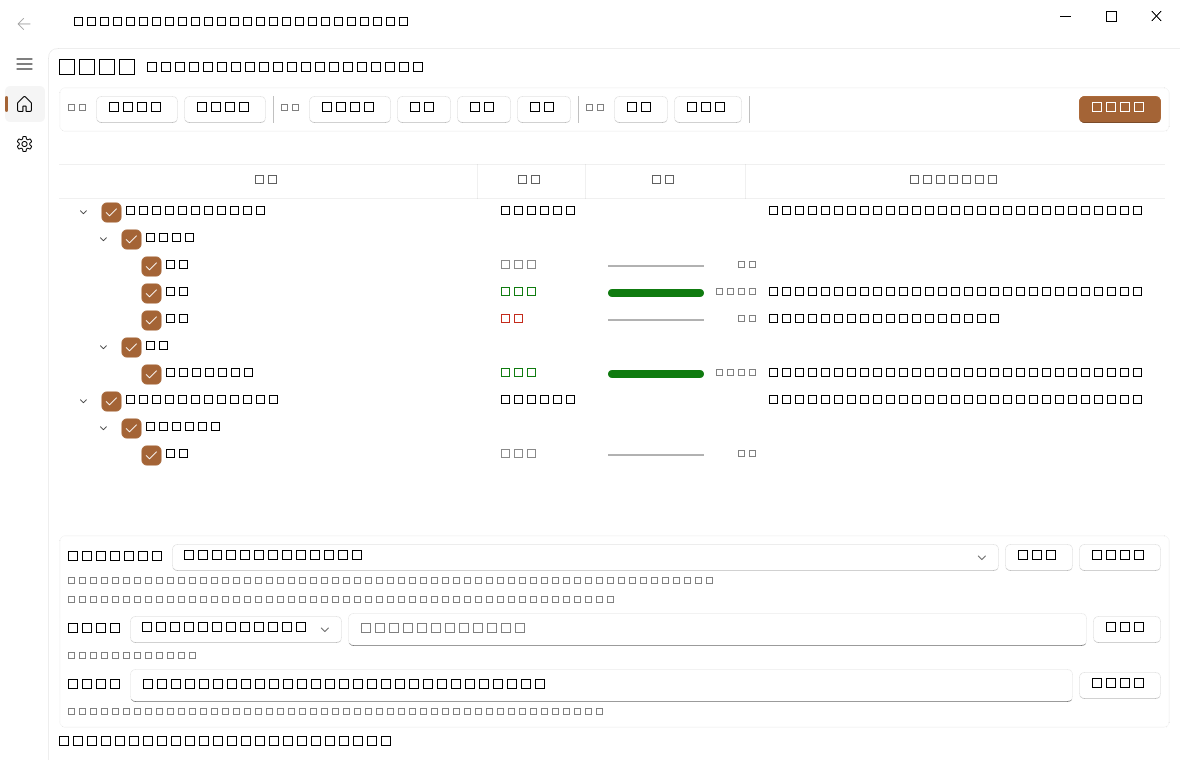
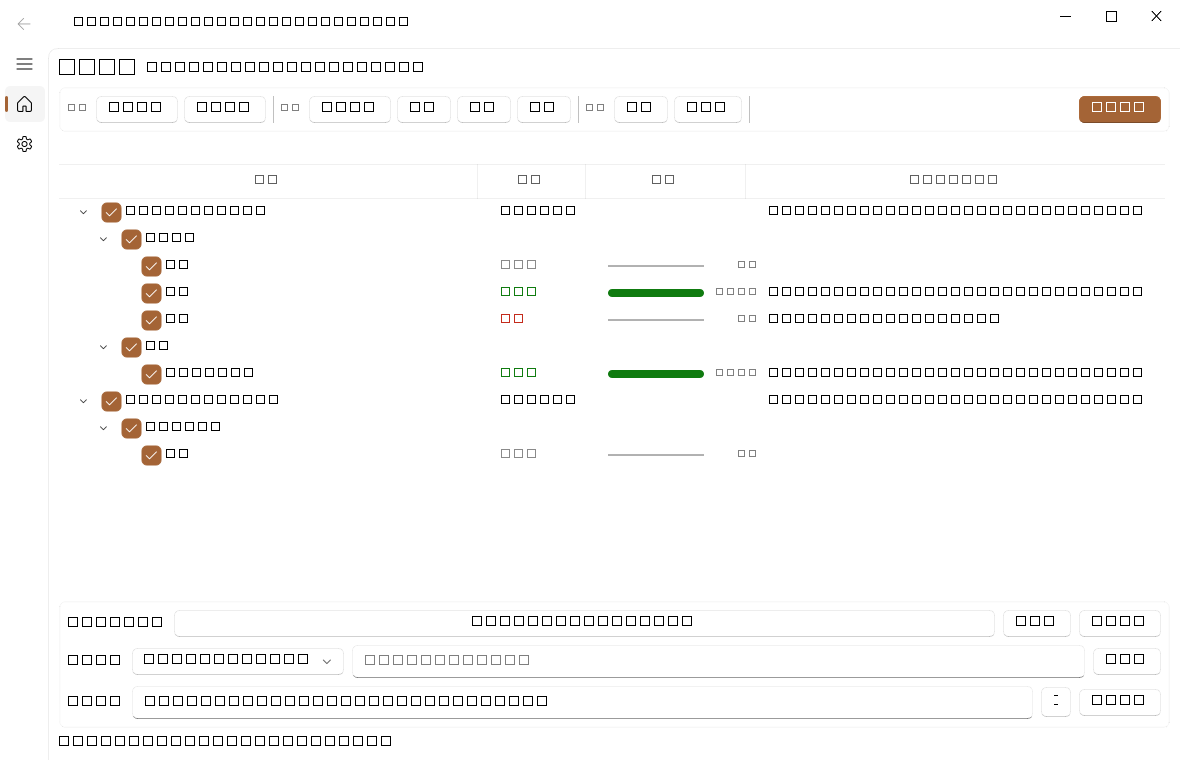
feat: 选项区信息层级重构
- Blender 下拉改为富两行项（主行简短名 + 灰字完整路径）；移除外置路径灰字与 GPU 提示
- 输出目录：移除外部灰色小字（说明并入来源下拉选项文字）
- 命名模板：灰色小字换成“?”按钮 → 结构化浮窗，每个占位符以圆角框/胶囊列出（含描述与示例）
- 新增 ui/widgets.py：富下拉 RichComboBox + 卡片浮窗/占位符帮助

diff --git a/src/rmqueue/ui/widgets.py b/src/rmqueue/ui/widgets.py
@@ -1,0 +1,235 @@
+"""自绘 UI 小部件：富两行下拉选择器 + 卡片风格浮窗/提示。
+
+qfluentwidgets 的 ComboBox 只支持单行文本项，无法做「主行简短名 + 灰字全路径」；
+这里用 Fluent PushButton + Qt.Popup 实现等价交互（观感一致的富下拉），
+并提供「? 帮助浮窗」的卡片容器与占位符说明内容。
+"""
+
+from __future__ import annotations
+
+from PySide6.QtCore import Qt, Signal
+from PySide6.QtGui import QFontMetrics
+from PySide6.QtWidgets import (
+    QHBoxLayout,
+    QLabel,
+    QPushButton,
+    QVBoxLayout,
+    QWidget,
+)
+from qfluentwidgets import BodyLabel, PushButton
+from qfluentwidgets.common.style_sheet import isDarkTheme
+
+_ACCENT = "#0078d4"
+
+
+def card_colors() -> tuple[str, str, str]:
+    """返回 (卡片背景, 主文字, 次文字) 依当前深浅主题。"""
+    if isDarkTheme():
+        return "#2b2b2b", "#e6e6e6", "#8f8f8f"
+    return "#ffffff", "#242424", "#808080"
+
+
+def apply_card_style(widget: QWidget) -> None:
+    bg, text, sub = card_colors()
+    widget.setStyleSheet(
+        f"QWidget#card {{ background: {bg}; border: 1px solid rgba(127,127,127,60%);"
+        f" border-radius: 8px; }}"
+        f"QLabel {{ color: {text}; }}"
+        f"QLabel[cls='sub'] {{ color: {sub}; font-size: 11px; }}")
+    widget.setAttribute(Qt.WidgetAttribute.WA_TranslucentBackground)
+    widget.setObjectName("card")
+    # 去掉顶层默认背景，仅保留 #card 样式
+    widget.setStyleSheet(widget.styleSheet())
+
+
+class _PopupCard(QWidget):
+    """Qt.Popup 无边框圆角卡片：点击外部自动关闭。"""
+
+    def __init__(self, parent: QWidget | None = None) -> None:
+        super().__init__(parent, Qt.WindowType.Popup
+                         | Qt.WindowType.FramelessWindowHint)
+        apply_card_style(self)
+
+
+class RichComboBox(QWidget):
+    """两行富下拉（主行简短名 + 灰字路径），接口对齐 ComboBox 常用用法。
+
+    信号：currentIndexChanged(int)。支持 addItem(text, userData=…, subtitle=…)，
+    未传 subtitle 时默认用 userData 文本作为灰字（即路径）。
+    """
+
+    currentIndexChanged = Signal(int)
+
+    def __init__(self, parent: QWidget | None = None) -> None:
+        super().__init__(parent)
+        self._items: list[dict] = []
+        self._index = -1
+        self._block = False
+        self._min_w = 220
+        lay = QHBoxLayout(self)
+        lay.setContentsMargins(0, 0, 0, 0)
+        self._button = PushButton("")
+        self._button.setMinimumWidth(220)
+        self._button.clicked.connect(self._open_menu)
+        lay.addWidget(self._button)
+        self.setMinimumWidth(220)
+
+    # ---- 与 ComboBox 近似的方法 ----
+    def setMinimumWidth(self, w: int) -> None:  # noqa: N802
+        self._min_w = int(w)
+        self._button.setMinimumWidth(self._min_w)
+        super().setMinimumWidth(self._min_w)
+
+    def blockSignals(self, flag: bool):  # noqa: N802
+        self._block = flag
+
+    def clear(self) -> None:
+        self._items = []
+        self._index = -1
+        self._button.setText("")
+
+    def count(self) -> int:
+        return len(self._items)
+
+    def addItem(self, text: str, icon=None, userData: str | None = None,
+                subtitle: str | None = None):  # noqa: N802
+        del icon  # 不使用图标
+        self._items.append({
+            "text": str(text),
+            "data": "" if userData is None else str(userData),
+            "subtitle": str(userData) if subtitle is None else str(subtitle),
+        })
+        if self._index < 0 and len(self._items) == 1:
+            self._set_index(0)
+
+    def currentIndex(self) -> int:  # noqa: N802
+        return self._index
+
+    def currentData(self):
+        if 0 <= self._index < len(self._items):
+            return self._items[self._index]["data"]
+        return None
+
+    def itemData(self, index: int):  # noqa: N802
+        if 0 <= index < len(self._items):
+            return self._items[index]["data"]
+        return None
+
+    def itemText(self, index: int):  # noqa: N802
+        if 0 <= index < len(self._items):
+            return self._items[index]["text"]
+        return ""
+
+    def setCurrentIndex(self, index: int):  # noqa: N802
+        if 0 <= index < len(self._items):
+            self._set_index(index)
+
+    def _set_index(self, index: int) -> None:
+        old = self._index
+        self._index = index
+        item = self._items[index]
+        self._button.setText(f"{item['text']}  ▾")
+        if not self._block and index != old:
+            self.currentIndexChanged.emit(index)
+
+    # ---- 弹层 ----
+    def _open_menu(self) -> None:
+        if not self._items:
+            return
+        menu = _PopupCard(self.window())
+        bg, text, sub = card_colors()
+        lay = QVBoxLayout(menu)
+        lay.setContentsMargins(8, 8, 8, 8)
+        lay.setSpacing(2)
+        for i, item in enumerate(self._items):
+            row = QPushButton()
+            row.setCursor(Qt.CursorShape.PointingHandCursor)
+            row.setStyleSheet(
+                "QPushButton { background: transparent; border: none;"
+                f" border-radius: 6px; padding: 6px 10px; text-align: left; }}"
+                "QPushButton:hover { background: rgba(0,120,212,0.15); }")
+            rl = QVBoxLayout(row)
+            rl.setContentsMargins(4, 2, 4, 2)
+            rl.setSpacing(1)
+            name = QLabel(item["text"])
+            name.setStyleSheet(f"color:{text}; font-size:13px;")
+            path = QLabel(item["subtitle"])
+            path.setStyleSheet(f"color:{sub}; font-size:11px;")
+            rl.addWidget(name)
+            rl.addWidget(path)
+            row.clicked.connect(lambda _=False, idx=i: self._on_chosen(menu, idx))
+            lay.addWidget(row)
+        lay.addStretch(0)
+        # 锚定到按钮下方
+        pos = self.mapToGlobal(self.rect().bottomLeft())
+        menu.adjustSize()
+        w = max(self._min_w, menu.sizeHint().width())
+        menu.resize(w, menu.sizeHint().height())
+        menu.move(pos.x(), pos.y() + 6)
+        menu.show()
+        menu.raise_()
+
+    def _on_chosen(self, menu: QWidget, index: int) -> None:
+        menu.close()
+        self._set_index(index)
+
+
+class PlaceholderHelpPopover(QWidget):
+    """命名模板 '?' 帮助浮窗：结构化列出每个占位符。"""
+
+    def __init__(self, parent: QWidget | None = None) -> None:
+        super().__init__(parent, Qt.WindowType.Popup
+                         | Qt.WindowType.FramelessWindowHint)
+        self.setObjectName("card")
+        self._build()
+
+    def _build(self) -> None:
+        apply_card_style(self)
+        root = QVBoxLayout(self)
+        root.setContentsMargins(16, 12, 16, 12)
+        root.setSpacing(4)
+        title = QLabel("命名模板占位符")
+        title.setStyleSheet("font-size:14px; font-weight:600;")
+        root.addWidget(title)
+        root.addSpacing(4)
+        bg, text, sub = card_colors()
+        examples = {
+            "{file}": ("当前 .blend 文件名（去扩展名）", "job_scene"),
+            "{scene}": ("场景名", "产品白底"),
+            "{name}": ("快照名", "正面"),
+            "{index}": ("队列序号（从 1 开始，可带格式）", "{index:02d} → 07"),
+            "{frame}": ("渲染帧号（可带格式）", "{frame:04d} → 0007"),
+        }
+        for token, (desc, example) in examples.items():
+            box = QWidget()
+            box.setStyleSheet(
+                f"background: transparent; border: 1px solid rgba(127,127,127,80%);"
+                f" border-radius: 6px;")
+            row = QHBoxLayout(box)
+            row.setContentsMargins(8, 4, 8, 4)
+            chip = QLabel(token)
+            chip.setStyleSheet(
+                f"background: rgba(0,120,212,0.15); color:{_ACCENT};"
+                f" border-radius: 4px; padding: 1px 7px; font-weight:600;")
+            row.addWidget(chip)
+            col = QVBoxLayout()
+            col.setSpacing(0)
+            d = QLabel(desc)
+            d.setStyleSheet(f"color:{text};")
+            e = QLabel(f"例：{example}")
+            e.setStyleSheet(f"color:{sub}; font-size:11px;")
+            col.addWidget(d)
+            col.addWidget(e)
+            row.addLayout(col, 1)
+            root.addWidget(box)
+        note = QLabel("提示：模板中的 / 会生成子文件夹；不含任何占位符时会自动回退默认模板。")
+        note.setWordWrap(True)
+        note.setStyleSheet(f"color:{sub}; font-size:11px;")
+        root.addWidget(note)
+        self.adjustSize()
+
+    def show_below(self, anchor: QWidget) -> None:
+        pos = anchor.mapToGlobal(anchor.rect().bottomRight())
+        self.move(pos.x() - self.width(), pos.y() + 6)
+        self.show()
+        self.raise_()

diff --git a/src/rmqueue/ui/queue_page.py b/src/rmqueue/ui/queue_page.py
@@ -44,6 +44,7 @@ from qfluentwidgets import (
 from .. import blender_tools
 from ..naming import DEFAULT_FILE_TEMPLATE
 from ..queue import Queue
+from .widgets import PlaceholderHelpPopover, RichComboBox
 from .workers import status_text
 
 ROLE_TOKEN = Qt.ItemDataRole.UserRole
@@ -215,28 +216,20 @@ class QueuePage(QWidget):
         # ---- 渲染选项卡片（在首页）
         opts = CardWidget(self)
         ov = QVBoxLayout(opts)
-        ov.setSpacing(6)
+        ov.setSpacing(8)
 
+        # Blender：富下拉，选项内含「简短名 + 灰字全路径」（路径不再外置显示）
         row1 = QHBoxLayout()
         row1.addWidget(BodyLabel("Blender"))
-        self.cmbBlender = ComboBox()
-        self.cmbBlender.setMinimumWidth(220)
+        self.cmbBlender = RichComboBox()
         row1.addWidget(self.cmbBlender, 1)
         self.btnBrowseBlender = PushButton("浏览…")
         self.btnRescanBlender = PushButton("重新探测")
         row1.addWidget(self.btnBrowseBlender)
         row1.addWidget(self.btnRescanBlender)
         ov.addLayout(row1)
-        self.lblBlenderPath = QLabel("")
-        self.lblBlenderPath.setStyleSheet("color:#808080;font-size:11px;")
-        self.lblBlenderPath.setTextInteractionFlags(
-            Qt.TextInteractionFlag.TextSelectableByMouse)
-        ov.addWidget(self.lblBlenderPath)
-        self.lblBlenderHint = QLabel(_BLENDER_EXE_HINT)
-        self.lblBlenderHint.setWordWrap(True)
-        self.lblBlenderHint.setStyleSheet("color:#808080;font-size:11px;")
-        ov.addWidget(self.lblBlenderHint)
 
+        # 输出目录来源（下拉即含说明，不再另置灰色小字）
         row2 = QHBoxLayout()
         row2.addWidget(BodyLabel("输出目录"))
         self.cmbSource = ComboBox()
@@ -250,22 +243,22 @@ class QueuePage(QWidget):
         self.btnBrowseOut = PushButton("浏览…")
         row2.addWidget(self.btnBrowseOut)
         ov.addLayout(row2)
-        self.lblResolved = QLabel("")
-        self.lblResolved.setStyleSheet("color:#808080;font-size:11px;")
-        self.lblResolved.setWordWrap(True)
-        ov.addWidget(self.lblResolved)
 
+        # 命名模板 + “?”帮助浮窗
         row3 = QHBoxLayout()
         row3.addWidget(BodyLabel("命名模板"))
         self.edTemplate = LineEdit()
         self.edTemplate.setText(DEFAULT_FILE_TEMPLATE)
         row3.addWidget(self.edTemplate, 1)
+        self.btnTemplateHelp = PushButton("?")
+        self.btnTemplateHelp.setFixedSize(30, 30)
+        self.btnTemplateHelp.setToolTip("占位符说明")
+        self.btnTemplateHelp.clicked.connect(self._toggle_template_help)
+        row3.addWidget(self.btnTemplateHelp)
         self.btnDefaultTemplate = PushButton("恢复默认")
         row3.addWidget(self.btnDefaultTemplate)
         ov.addLayout(row3)
-        tplHint = QLabel("占位符 {file} {scene} {name} {index} {frame}；/ 生成子目录")
-        tplHint.setStyleSheet("color:#808080;font-size:11px;")
-        ov.addWidget(tplHint)
+        self._template_pop = None
         root.addWidget(opts)
 
         # ---- 状态行
@@ -355,7 +348,6 @@ class QueuePage(QWidget):
         return str(self.cmbBlender.currentData() or "")
 
     def _on_blender_changed(self) -> None:
-        self.lblBlenderPath.setText(self.blender_exe())
         self._on_config_changed()
 
     def _browse_blender(self) -> None:
@@ -446,7 +438,6 @@ class QueuePage(QWidget):
                                     + (f" · {done} 完成" if done else ""))
         finally:
             self._loading = False
-        self._update_resolved_hint()
 
     # ============================================================ 交互
     def _on_item_changed(self, item: QTreeWidgetItem, column: int) -> None:
@@ -662,18 +653,14 @@ class QueuePage(QWidget):
             cell.set_fraction(frac, status)
 
     # ============================================================ 配置
-    def _update_resolved_hint(self) -> None:
-        mode = self.cmbSource.currentData() or "global"
-        if mode == "global":
-            self.lblResolved.setText(
-                "全局输出目录：" + (self.edOutdir.text() or "（未设置）"))
-        else:
-            self.lblResolved.setText(
-                "跟随项目：各场景使用 .blend 内插件保存的输出目录"
-                "（//=blend 所在目录），未设置时回退全局。")
+    def _toggle_template_help(self) -> None:
+        if self._template_pop is not None:
+            self._template_pop.close()
+        pop = PlaceholderHelpPopover(self.window())
+        self._template_pop = pop
+        pop.show_below(self.btnTemplateHelp)
 
     def _on_config_changed(self) -> None:
-        self._update_resolved_hint()
         self.configChanged.emit()
 
     def config_get(self) -> dict:

diff --git a/tests/ui_smoke.py b/tests/ui_smoke.py
@@ -97,6 +97,15 @@ def main() -> int:
     assert win._render is None  # 校验失败不应启动
     print("step: start_render guard ok", flush=True)
 
+    # “?”模板帮助浮窗
+    win.page.btnTemplateHelp.click()
+    app.processEvents()
+    pop = win.page._template_pop
+    assert pop is not None and pop.isVisible()
+    pop.close()
+    app.processEvents()
+    print("step: help popover ok", flush=True)
+
     # 关闭（若有 worker 残留则先取消等待）
     if win._render is not None:
         win._render.cancel()
